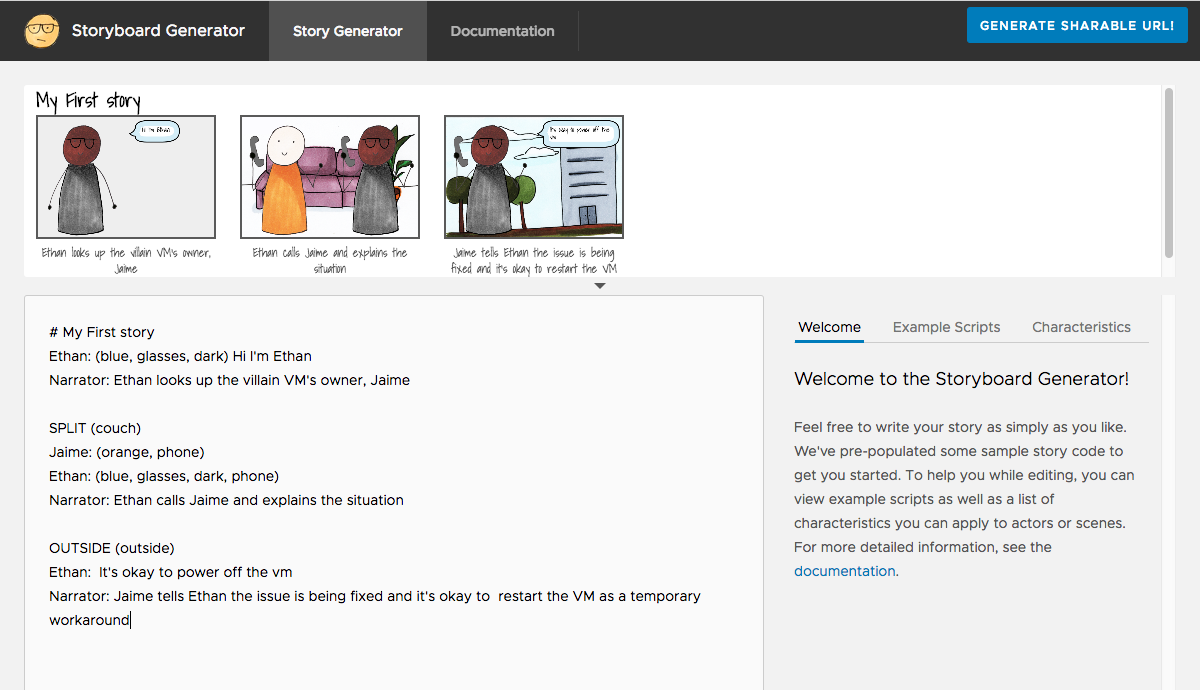
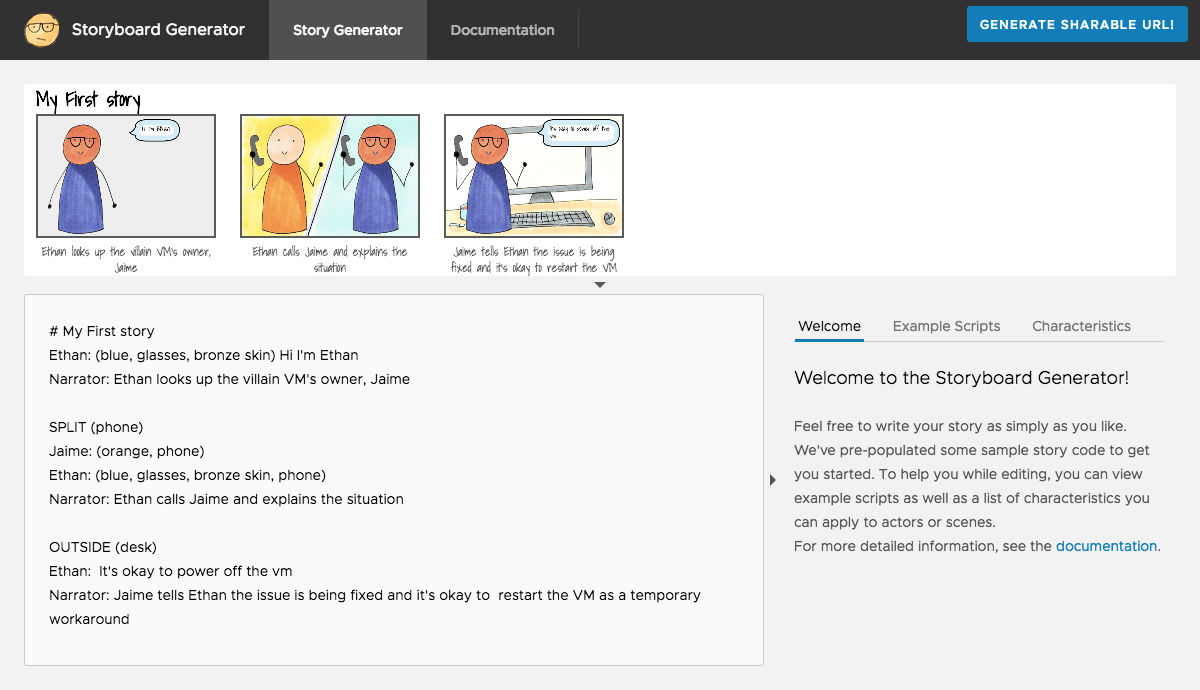
Updated default storyboard with valid data.  Updated screenshot to match.  Updated skin colors of various heads to be more specific.  Added non-racial "yellow" color

diff --git a/ui/src/app/home/home.component.ts b/ui/src/app/home/home.component.ts
@@ -14,18 +14,18 @@ export class HomeComponent implements OnDestroy {
 
   public storyboard: Storyboard;
 
-  private _story: string = `# My First story
-Ethan: (blue, glasses, dark) Hi I'm Ethan
+  private _story: string = `# My First Story
+Ethan: (blue, glasses, bronze skin) Hi I'm Ethan
 Narrator: Ethan looks up the villain VM's owner, Jaime
 
-SPLIT (couch)
+SPLIT (phone)
 Jaime: (orange, phone)
-Ethan: (blue, glasses, dark, phone)
+Ethan: (blue, glasses, bronze skin, phone)
 Narrator: Ethan calls Jaime and explains the situation
 
-OUTSIDE (outside)
+OUTSIDE (desk)
 Ethan:  It's okay to power off the vm
-Narrator: Jaime tells Ethan the issue is being fixed and it's okay to  restart the VM as a temporary workaround`;
+Narrator: Jaime tells Ethan the issue is being fixed and it's okay to restart the VM as a temporary workaround`;
 
   private paramsSubscription: Subscription;
 
